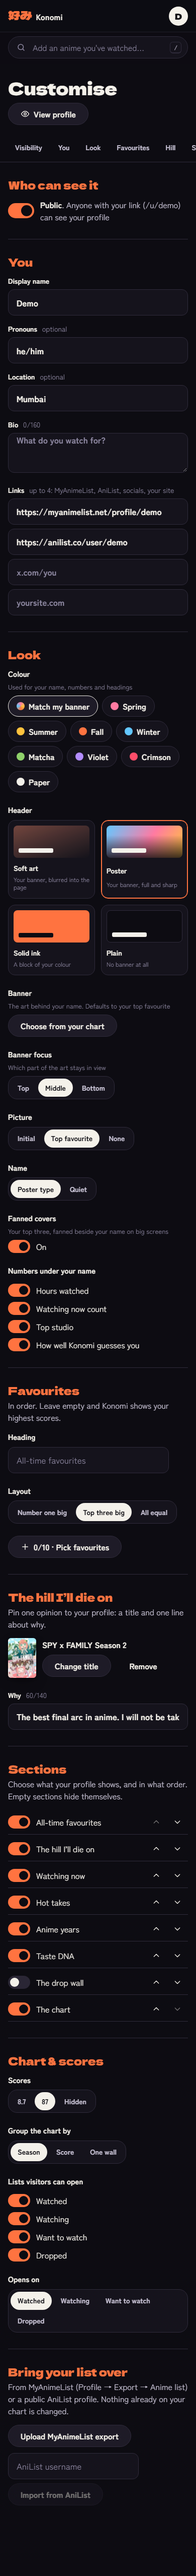
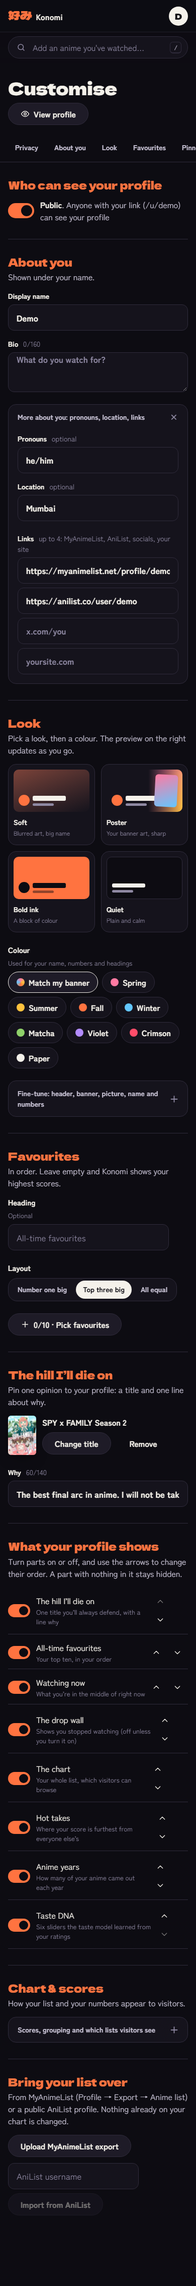
Simpler Customise: one-tap looks, rarely used options folded

diff --git a/web/src/features/profile/SettingsPage.tsx b/web/src/features/profile/SettingsPage.tsx
@@ -47,6 +47,14 @@ const HEADERS = [
   { id: 'ink', label: 'Solid ink', note: 'A block of your colour' },
   { id: 'plain', label: 'Plain', note: 'No banner at all' },
 ] as const
+/** Complete looks in one tap. Fine-tune below changes any single part. */
+const THEMES = [
+  { id: 'soft', label: 'Soft', note: 'Blurred art, big name', look: { header: 'art', avatar: 'initial', name_style: 'poster', fav_layout: 'hero', fan: true } },
+  { id: 'poster', label: 'Poster', note: 'Your banner art, sharp', look: { header: 'poster', avatar: 'cover', name_style: 'poster', fav_layout: 'podium', fan: false } },
+  { id: 'ink', label: 'Bold ink', note: 'A block of colour', look: { header: 'ink', avatar: 'initial', name_style: 'poster', fav_layout: 'hero', fan: true } },
+  { id: 'quiet', label: 'Quiet', note: 'Plain and calm', look: { header: 'plain', avatar: 'none', name_style: 'quiet', fav_layout: 'even', fan: false } },
+] as const
+
 const STATS = [
   { id: 'hours', label: 'Hours watched' }, { id: 'watching', label: 'Watching now count' },
   { id: 'studio', label: 'Top studio' }, { id: 'track', label: 'How well Konomi guesses you' },
@@ -214,6 +222,16 @@ export function SettingsPage() {
                 <input className="field" value={name} maxLength={40} onChange={(e) => setName(e.target.value)}
                   onBlur={() => name.trim() && name.trim() !== s.display_name && set({ display_name: name.trim() })} />
               </label>
+              <label className="set-field set-span">
+                <span>Bio <em className="faint">{bio.length}/160</em></span>
+                <textarea className="field set-bio" value={bio} maxLength={160} rows={3} onChange={(e) => setBio(e.target.value)}
+                  onBlur={() => bio !== s.bio && set({ bio })} placeholder="What do you watch for?" />
+              </label>
+            </div>
+            <details className="set-more" open={!!(s.pronouns || s.location || s.links.length) || undefined}>
+              <summary>More about you: pronouns, location, links</summary>
+              <div className="set-more-body">
+            <div className="set-grid">
               <label className="set-field">
                 <span>Pronouns <em className="faint">optional</em></span>
                 <input className="field" value={pronouns} maxLength={24} placeholder="they/them"
@@ -223,11 +241,6 @@ export function SettingsPage() {
                 <span>Location <em className="faint">optional</em></span>
                 <input className="field" value={location} maxLength={40} placeholder="Mumbai"
                   onChange={(e) => setLocation(e.target.value)} onBlur={blurSave('location', location, s.location)} />
-              </label>
-              <label className="set-field set-span">
-                <span>Bio <em className="faint">{bio.length}/160</em></span>
-                <textarea className="field set-bio" value={bio} maxLength={160} rows={3} onChange={(e) => setBio(e.target.value)}
-                  onBlur={() => bio !== s.bio && set({ bio })} placeholder="What do you watch for?" />
               </label>
             </div>
             <div className="set-field">
@@ -244,9 +257,24 @@ export function SettingsPage() {
                 ))}
               </div>
             </div>
+              </div>
+            </details>
           </Group>
 
-          <Group id="look" title="Look" lead="How the top of your profile looks. The preview on the right updates as you go.">
+          <Group id="look" title="Look" lead="Pick a look, then a colour. The preview on the right updates as you go.">
+            <div className="set-themes" role="radiogroup" aria-label="Look">
+              {THEMES.map((t) => {
+                const on = Object.entries(t.look).every(([k, v]) => s[k as keyof Settings] === v)
+                return (
+                  <button key={t.id} role="radio" aria-checked={on} className={`set-theme theme-${t.id}${on ? ' is-on' : ''}`}
+                    onClick={() => set(t.look as Partial<Settings>)}>
+                    <span className="set-theme-art" aria-hidden="true"><i /><b /><em /></span>
+                    <strong>{t.label}</strong>
+                    <span className="faint">{t.note}</span>
+                  </button>
+                )
+              })}
+            </div>
             <Row label="Colour" hint="Used for your name, numbers and headings">
               <div className="accents">
                 {ACCENTS.map((a) => (
@@ -257,6 +285,9 @@ export function SettingsPage() {
                 ))}
               </div>
             </Row>
+            <details className="set-more">
+              <summary>Fine-tune: header, banner, picture, name and numbers</summary>
+              <div className="set-more-body">
             <Row label="Header">
               <div className="set-cards" role="radiogroup" aria-label="Header style">
                 {HEADERS.map((h) => (
@@ -308,17 +339,11 @@ export function SettingsPage() {
                 ))}
               </div>
             </Row>
+              </div>
+            </details>
           </Group>
 
           <Group id="favs" title="Favourites" lead="In order. Leave empty and Konomi shows your highest scores.">
-            <Row label="Heading">
-              <input className="field set-short" value={favTitle} maxLength={32} placeholder="All-time favourites"
-                onChange={(e) => setFavTitle(e.target.value)} onBlur={blurSave('fav_title', favTitle, s.fav_title)} />
-            </Row>
-            <Row label="Layout">
-              <Choice label="Favourites layout" value={s.fav_layout} onChange={(v) => set({ fav_layout: v })}
-                options={[{ id: 'hero', label: 'Number one big' }, { id: 'podium', label: 'Top three big' }, { id: 'even', label: 'All equal' }]} />
-            </Row>
             <div className="set-favs">
               {s.favourites.map((id, i) => byId.get(id) && (
                 <button key={id} className="set-fav" onClick={() => toggleFav(id)} aria-label={`Remove ${byId.get(id)!.anime.title}`}>
@@ -327,9 +352,22 @@ export function SettingsPage() {
                 </button>
               ))}
               <button className="btn" onClick={() => setPickFor(pickFor === 'favourites' ? null : 'favourites')}>
-                <Icon name="plus" size={18} /> {s.favourites.length}/10 · Pick favourites
+                <Icon name="plus" size={18} /> {s.favourites.length ? `Edit favourites (${s.favourites.length}/10)` : 'Pick favourites (now your top scores)'}
               </button>
             </div>
+            <details className="set-more">
+              <summary>Heading and layout</summary>
+              <div className="set-more-body">
+            <Row label="Heading" hint="Optional">
+              <input className="field set-short" value={favTitle} maxLength={32} placeholder="All-time favourites"
+                onChange={(e) => setFavTitle(e.target.value)} onBlur={blurSave('fav_title', favTitle, s.fav_title)} />
+            </Row>
+            <Row label="Layout">
+              <Choice label="Favourites layout" value={s.fav_layout} onChange={(v) => set({ fav_layout: v })}
+                options={[{ id: 'hero', label: 'Number one big' }, { id: 'podium', label: 'Top three big' }, { id: 'even', label: 'All equal' }]} />
+            </Row>
+              </div>
+            </details>
           </Group>
 
           <Group id="hill" title="The hill I’ll die on" lead="Pin one opinion to your profile: a title and one line about why.">
@@ -396,6 +434,9 @@ export function SettingsPage() {
           </Group>
 
           <Group id="chart" title="Chart & scores" lead="How your list and your numbers appear to visitors.">
+            <details className="set-more">
+              <summary>Scores, grouping and which lists visitors see</summary>
+              <div className="set-more-body">
             <Row label="Scores" hint={s.scores === 'off' ? 'Visitors see no numbers, and hot takes are hidden' : undefined}>
               <Choice label="Score format" value={s.scores} onChange={(v) => set({ scores: v })}
                 options={[{ id: 'ten', label: '8.7' }, { id: 'hundred', label: '87' }, { id: 'off', label: 'Hidden' }]} />
@@ -424,6 +465,8 @@ export function SettingsPage() {
               <Choice label="Default list" value={s.chart_tab} onChange={(v) => set({ chart_tab: v })}
                 options={ALL_LISTS.filter((x) => s.chart_lists.includes(x)).map((x) => ({ id: x, label: STATUS_LABEL[x] }))} />
             </Row>
+              </div>
+            </details>
           </Group>
 
           <Group id="import" title="Bring your list over" lead="From MyAnimeList (Profile → Export → Anime list) or a public AniList profile. Nothing already on your chart is changed.">

diff --git a/web/src/features/profile/settings.css b/web/src/features/profile/settings.css
@@ -126,3 +126,35 @@
 @keyframes sheet-fade { from { opacity: 0; } }
 @keyframes sheet-up { from { transform: translateY(40px); opacity: 0; } }
 @media (prefers-reduced-motion: reduce) { .sheet-back, .sheet { animation: none; } }
+
+/* One-tap looks: each card is a tiny drawing of the header it gives you. */
+.set-themes { display: grid; grid-template-columns: repeat(4, minmax(0, 1fr)); gap: var(--s3); }
+@media (max-width: 720px) { .set-themes { grid-template-columns: repeat(2, minmax(0, 1fr)); } }
+.set-theme { display: grid; gap: 2px; padding: 10px 10px 14px; border-radius: 16px; border: 1px solid var(--line); background: var(--ink-2); text-align: left; font-size: 14px; transition: border-color 0.2s, transform 0.2s var(--ease-out); }
+.set-theme:hover { transform: translateY(-2px); }
+.set-theme .faint { font-size: 12px; }
+.set-theme.is-on { border-color: var(--season); box-shadow: inset 0 0 0 1px var(--season); }
+.set-theme-art { position: relative; display: block; height: 84px; border-radius: 10px; margin-bottom: 8px; overflow: hidden; background: var(--ink-3); }
+.set-theme-art i { position: absolute; left: 10px; bottom: 12px; width: 22px; height: 22px; border-radius: 50%; background: var(--season); }
+.set-theme-art b { position: absolute; left: 38px; bottom: 22px; width: 44%; height: 10px; border-radius: 3px; background: var(--paper); }
+.set-theme-art em { position: absolute; left: 38px; bottom: 12px; width: 28%; height: 5px; border-radius: 3px; background: var(--paper-3); }
+.theme-soft .set-theme-art { background: linear-gradient(160deg, color-mix(in oklab, var(--season) 45%, var(--ink-3)), var(--ink-2)); }
+.theme-poster .set-theme-art { background: linear-gradient(to right, var(--ink-2) 55%, transparent), linear-gradient(120deg, var(--winter), var(--spring) 55%, var(--summer)); }
+.theme-poster .set-theme-art::after { content: ''; position: absolute; right: 10px; top: 10px; bottom: 10px; width: 30%; border-radius: 6px; background: linear-gradient(160deg, var(--spring), var(--winter)); transform: rotate(3deg); }
+.theme-ink .set-theme-art { background: var(--season); }
+.theme-ink .set-theme-art i { background: var(--ink); }
+.theme-ink .set-theme-art b { background: var(--ink); }
+.theme-ink .set-theme-art em { background: rgb(13 12 18 / 0.45); }
+.theme-quiet .set-theme-art { background: var(--ink); border: 1px solid var(--line); }
+.theme-quiet .set-theme-art i { display: none; }
+.theme-quiet .set-theme-art b, .theme-quiet .set-theme-art em { left: 10px; }
+.theme-quiet .set-theme-art b { height: 8px; }
+
+/* Rarely needed options fold away. */
+.set-more { border: 1px solid var(--line); border-radius: 16px; background: var(--ink-2); }
+.set-more > summary { cursor: pointer; list-style: none; padding: 14px 18px; font-weight: 700; font-size: 14px; color: var(--paper-2); display: flex; justify-content: space-between; align-items: center; }
+.set-more > summary::-webkit-details-marker { display: none; }
+.set-more > summary::after { content: '+'; font-size: 20px; line-height: 1; color: var(--paper-3); transition: transform 0.2s; }
+.set-more[open] > summary::after { transform: rotate(45deg); }
+.set-more > summary:hover { color: var(--paper); }
+.set-more-body { display: grid; gap: var(--s5); padding: var(--s2) 18px 18px; }
